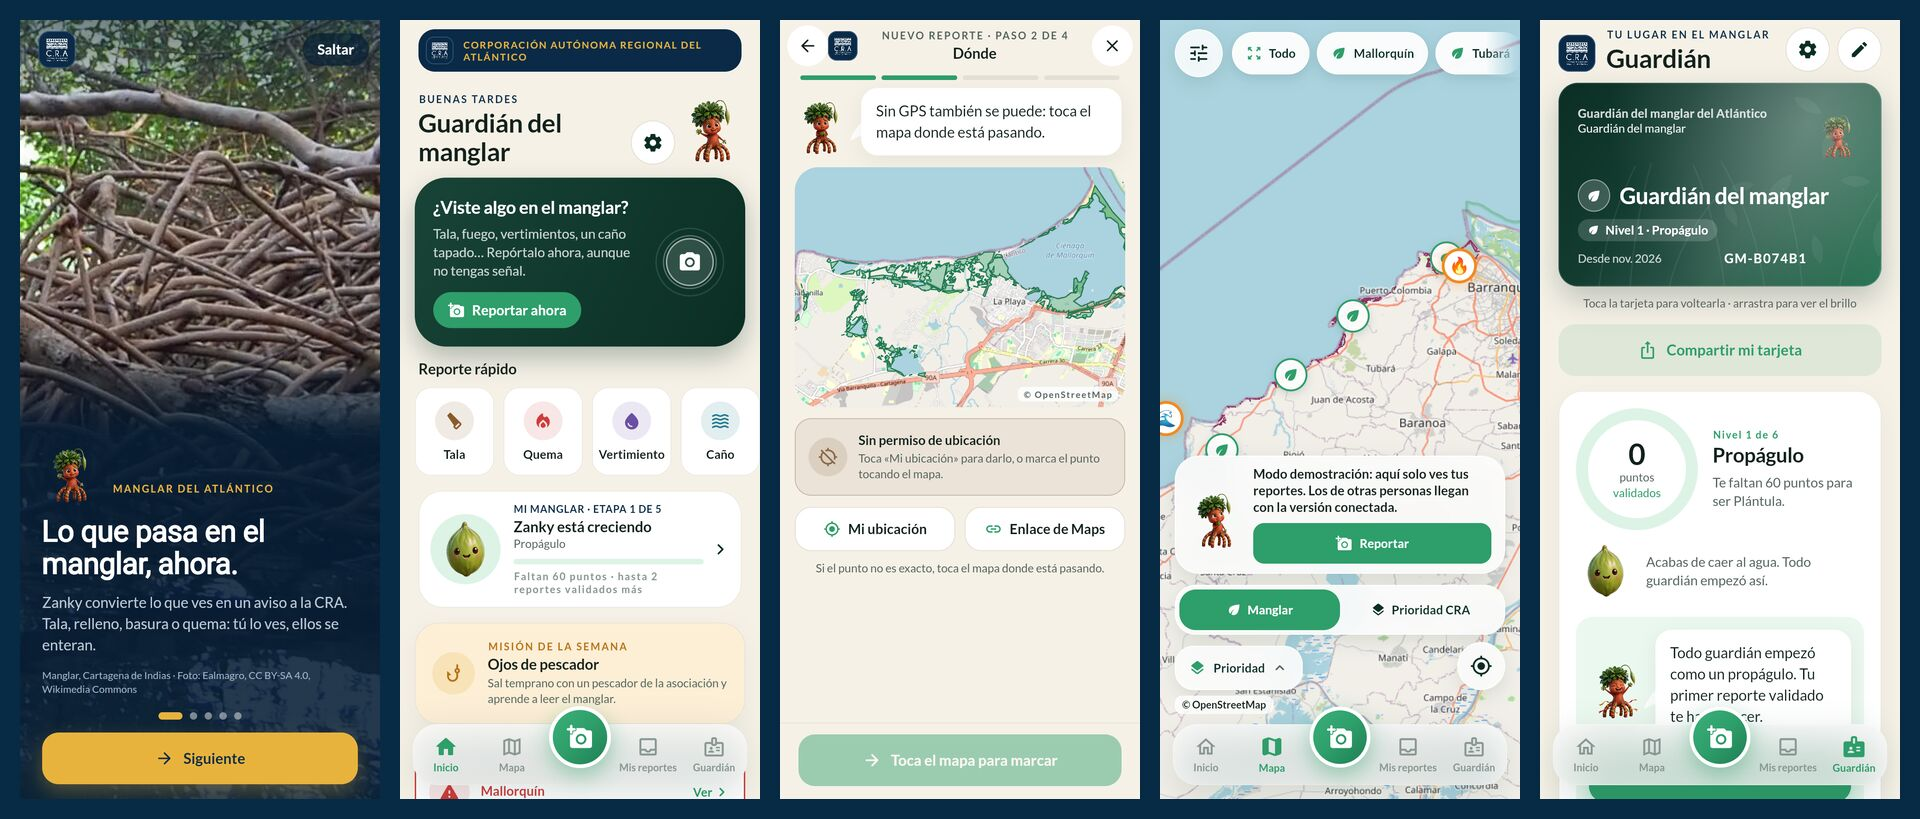
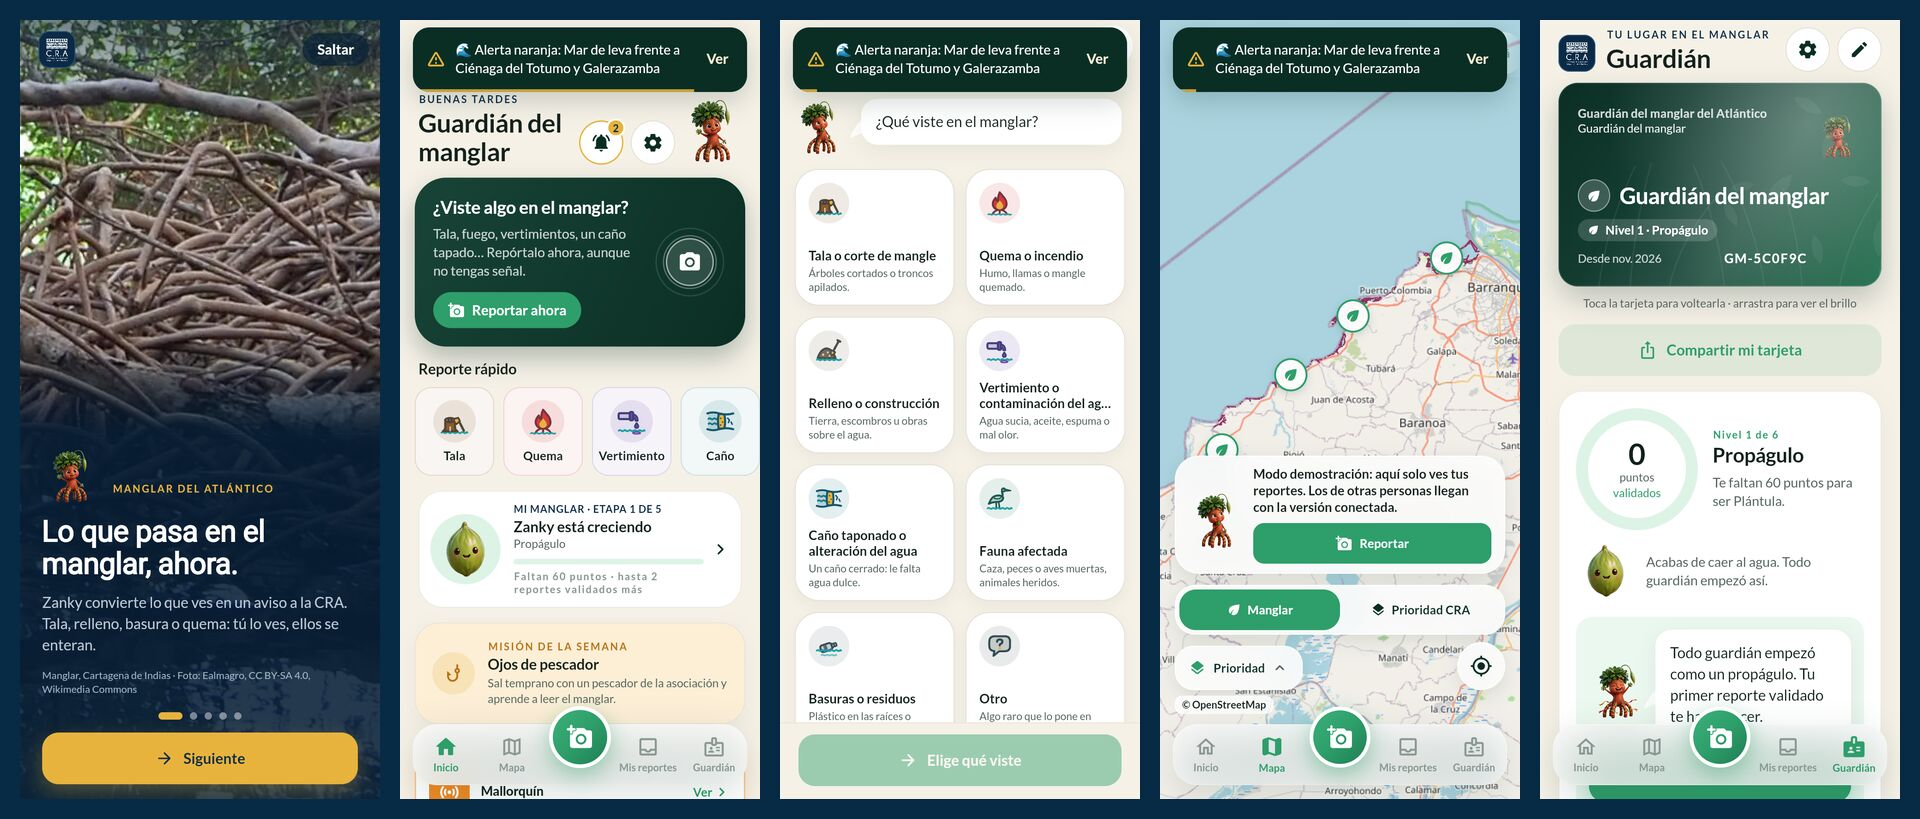
README: capturas de la app con lo último de main (alertas e íconos de amenaza)

diff --git a/README.md b/README.md
@@ -62,7 +62,7 @@ Reportes de la comunidad y jornadas en un solo mapa, con la alerta del día arri
 
 ### App móvil (Flutter)
 
-De izquierda a derecha: bienvenida, inicio, nuevo reporte (paso 2: dónde), mapa del manglar y tarjeta de guardián.
+De izquierda a derecha: bienvenida, inicio con la alerta del día, nuevo reporte (paso 1: qué viste), mapa del manglar y tarjeta de guardián.
 
 ![Pantallas de la app](docs/capturas/app-pantallas.jpg)
 
@@ -117,7 +117,7 @@ Las **alertas del manglar** corren en el servidor del bot cada 10 minutos. Cruza
 | Carpeta | Qué es | Estado hoy (27-11-2026) |
 |---|---|---|
 | `web/` | Web comunitaria, visores, plataforma de la C.R.A., panel y administración (Astro + React) | Publicada en mimanglar.sentralabs.co, conectada al servidor común |
-| `app/` | App móvil Android (Flutter), también compilada para la web | Flujo completo de reporte con cola sin señal, mapa, mis reportes y guardián. Sin las claves del servidor corre en modo demostración y lo dice |
+| `app/` | App móvil Android (Flutter), también compilada para la web | Flujo completo de reporte con cola sin señal, mapa, alertas y avisos, jornadas, mis reportes, datos abiertos y guardián. Sin las claves del servidor corre en modo demostración y lo dice |
 | `bot/` | Zanky BOT: WhatsApp Cloud API, alertas, jornadas y datos abiertos. Ver [bot/README.md](bot/README.md) | En línea con número propio, guarda en el servidor común |
 | `backend/supabase/` | Esquema, reglas de zona, prioridad y confianza, permisos por rol, funciones | En uso por la web, la app y el bot. La clasificación de fotos con IA está escrita, pero todavía no se ha desplegado |
 | `hardware/esp32-sensor/` y `tools/` | Estación ESP32 (nivel de agua, salinidad, temperatura) e ingesta de lecturas | En desarrollo |

diff --git a/docs/ficha-tecnica.md b/docs/ficha-tecnica.md
@@ -9,7 +9,7 @@ Revisada contra el código de `main` el 27-11-2026.
 
 | Componente | Tecnologías (versión) | Para qué |
 |---|---|---|
-| App móvil | Flutter 3.44 / Dart 3.12; `flutter_map` 8.3, `geolocator` 14, `image_picker` 1.2; también compilada para la web | Reportar sin señal (cola local), GPS o punto en el mapa, foto, prioridad, mapa, «mis reportes», tarjeta de guardián y modo evento por QR |
+| App móvil | Flutter 3.44 / Dart 3.12; `flutter_map` 8.3, `geolocator` 14, `image_picker` 1.2; también compilada para la web | Reportar sin señal (cola local), GPS o punto en el mapa, foto, prioridad, mapa, alertas y avisos, jornadas, «mis reportes», datos abiertos, tarjeta de guardián y modo evento por QR |
 | Web | Astro 7.4, React 19.3, Tailwind CSS 4.3, Leaflet 1.9 + react-leaflet 5, lucide-react | Portada comunitaria en vivo, reportar, alertas, jornadas, visores (riesgo, agua, workflow), plataforma de la C.R.A., panel y administración |
 | Zanky BOT | Node.js ≥ 20, TypeScript 5.7, Express 4.21; API oficial de WhatsApp Cloud (Meta) | Reportar por conversación (texto, ubicación, foto y notas de voz), número de caso, aviso de cambio de estado, jornadas, alertas, invitaciones y datos abiertos |
 | Servidor común | Supabase: Postgres + PostGIS, Auth, Storage (fotos en un depósito privado), RLS y funciones | En el servidor, nunca en el cliente: sector, área de influencia de 500 m, prioridad 1–5, confianza 0–100, corroboración, permisos por rol y auditoría |
